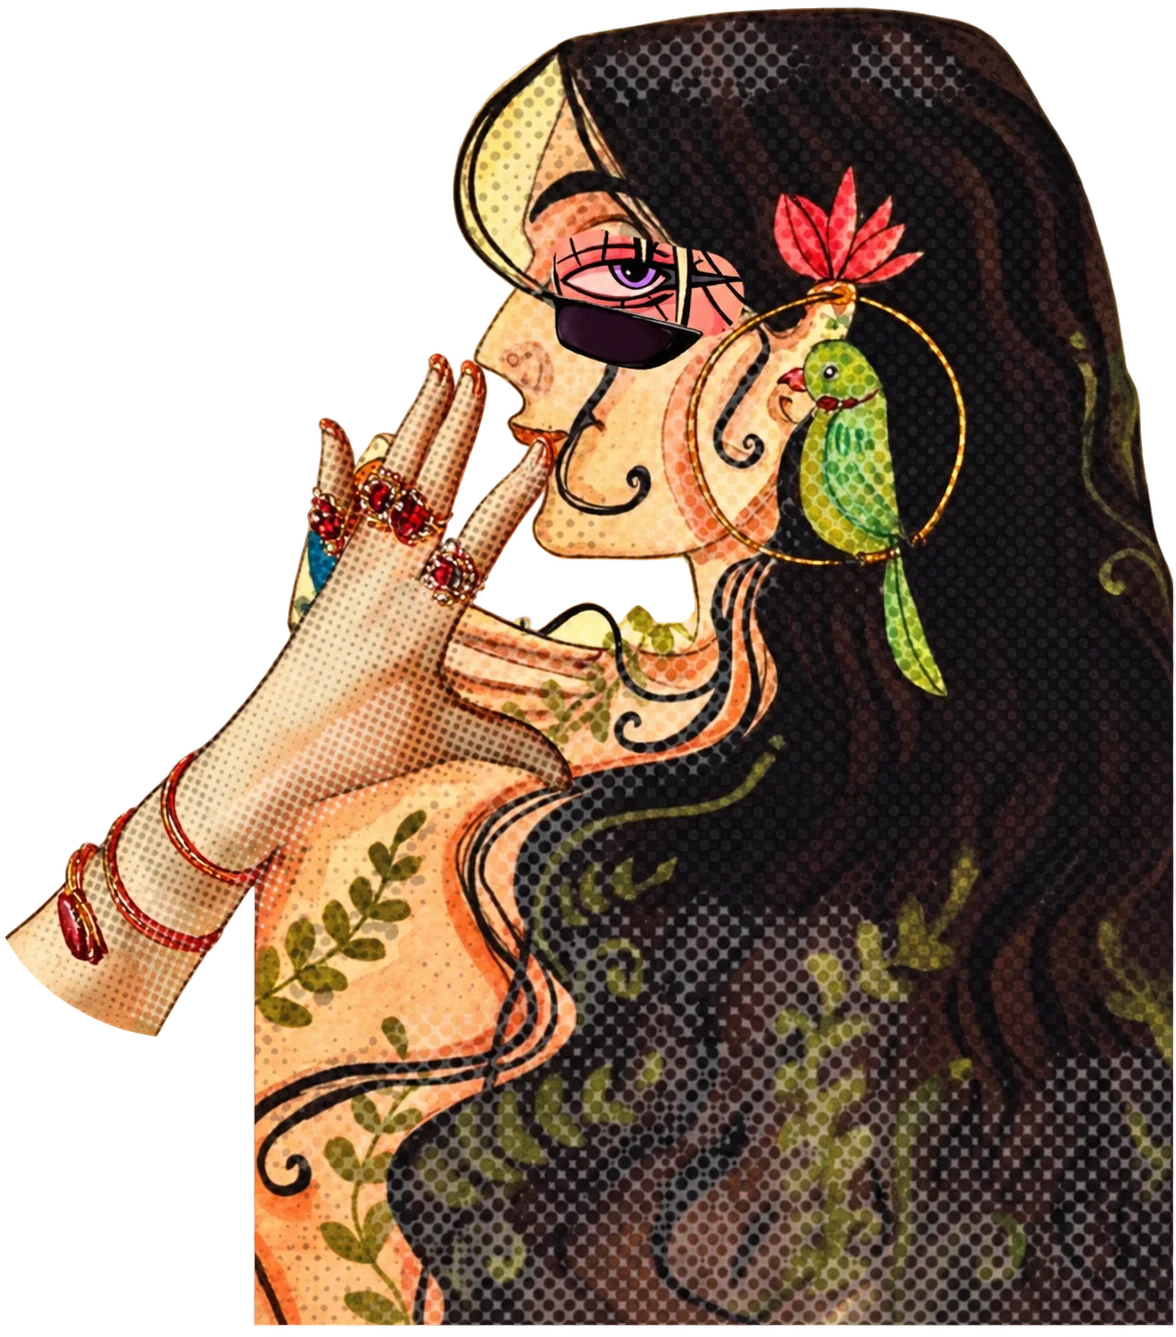
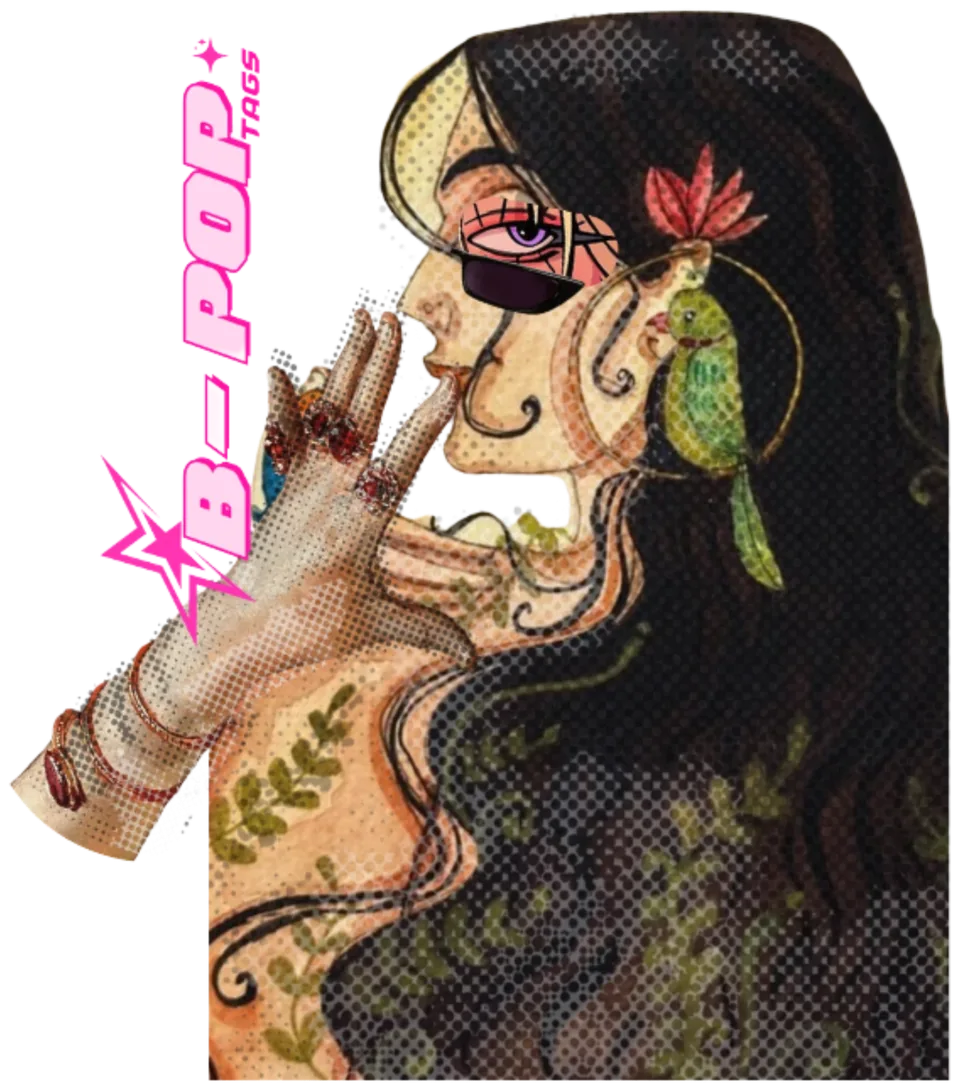
Restore original artwork while keeping Dekha Hobe branding

diff --git a/src/pages/Home.tsx b/src/pages/Home.tsx
@@ -117,8 +117,8 @@ export default function Home() {
             <div className="halftone halftone-fade pointer-events-none absolute -inset-8 text-brand/35" aria-hidden />
             <img
               src={heroArt}
-              width={1176}
-              height={1337}
+              width={960}
+              height={1091}
               alt="Dekha Hobe artwork: a Mughal-miniature-style woman in sunglasses with a parrot and a lotus, printed in halftone"
               className="relative h-auto w-full select-none"
               draggable={false}
